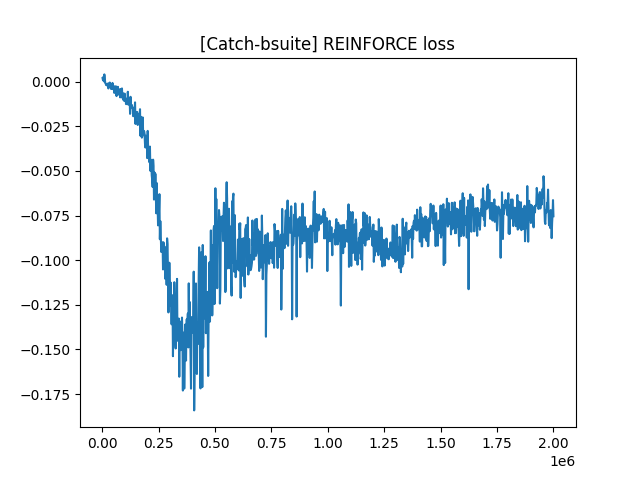
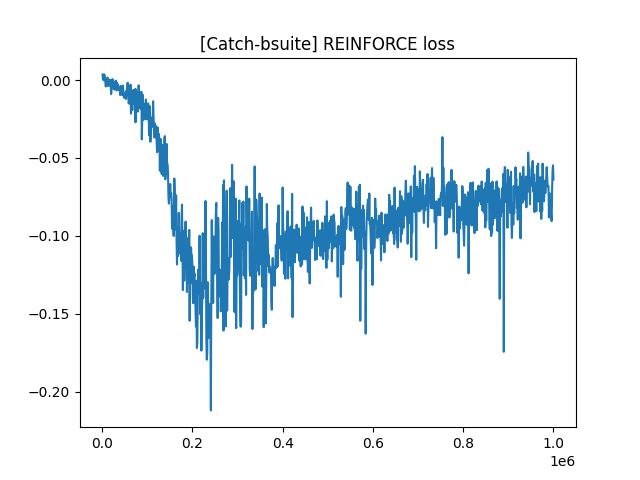
add hyperparameters

diff --git a/algos/reinforce.py b/algos/reinforce.py
@@ -13,9 +13,30 @@ import optax
 
 # Configuration parameters
 
-NUM_UPDATES = 1000
-BATCH_COUNT = 50
-ROLLOUT_LEN = 2000
+params = {
+    "cartpole": {
+        "hidden_sizes": (50, 20),
+        "num_updates": 1000,
+        "batch_count": 50,
+        "rollout_len": 2000,
+    },
+    "catch": {
+        "hidden_sizes": (50, 20),
+        "num_updates": 1000,
+        "batch_count": 50,
+        "rollout_len": 1000,
+    },
+    "breakout": {
+        "hidden_sizes": (400, 100),
+        "num_updates": 2000,
+        "batch_count": 50,
+        "rollout_len": 40000,
+    }
+}
+
+NUM_UPDATES = params[ENV_KEY]["num_updates"]
+BATCH_COUNT = params[ENV_KEY]["batch_count"]
+ROLLOUT_LEN = params[ENV_KEY]["rollout_len"]
 DISCOUNT_RATE = 0.99
 LEARNING_RATE = 0.001
 ADAM_EPS = 1e-5
@@ -29,9 +50,9 @@ class Actor(nn.Module):
 
     @nn.compact
     def __call__(self, input):
-        out = nn.Dense(50)(input)
+        out = nn.Dense(params[ENV_KEY]["hidden_sizes"][0])(input)
         out = nn.relu(out)
-        out = nn.Dense(20)(out)
+        out = nn.Dense(params[ENV_KEY]["hidden_sizes"][1])(out)
         out = nn.relu(out)
         out = nn.Dense(self.num_actions)(out)
         return Categorical(out)

diff --git a/algos/env.py b/algos/env.py
@@ -3,6 +3,7 @@
 names = {
     "cartpole": "CartPole-v1",
     "catch": "Catch-bsuite",
+    "breakout": "Breakout-MinAtar",
 }
 key = "cartpole"
 
